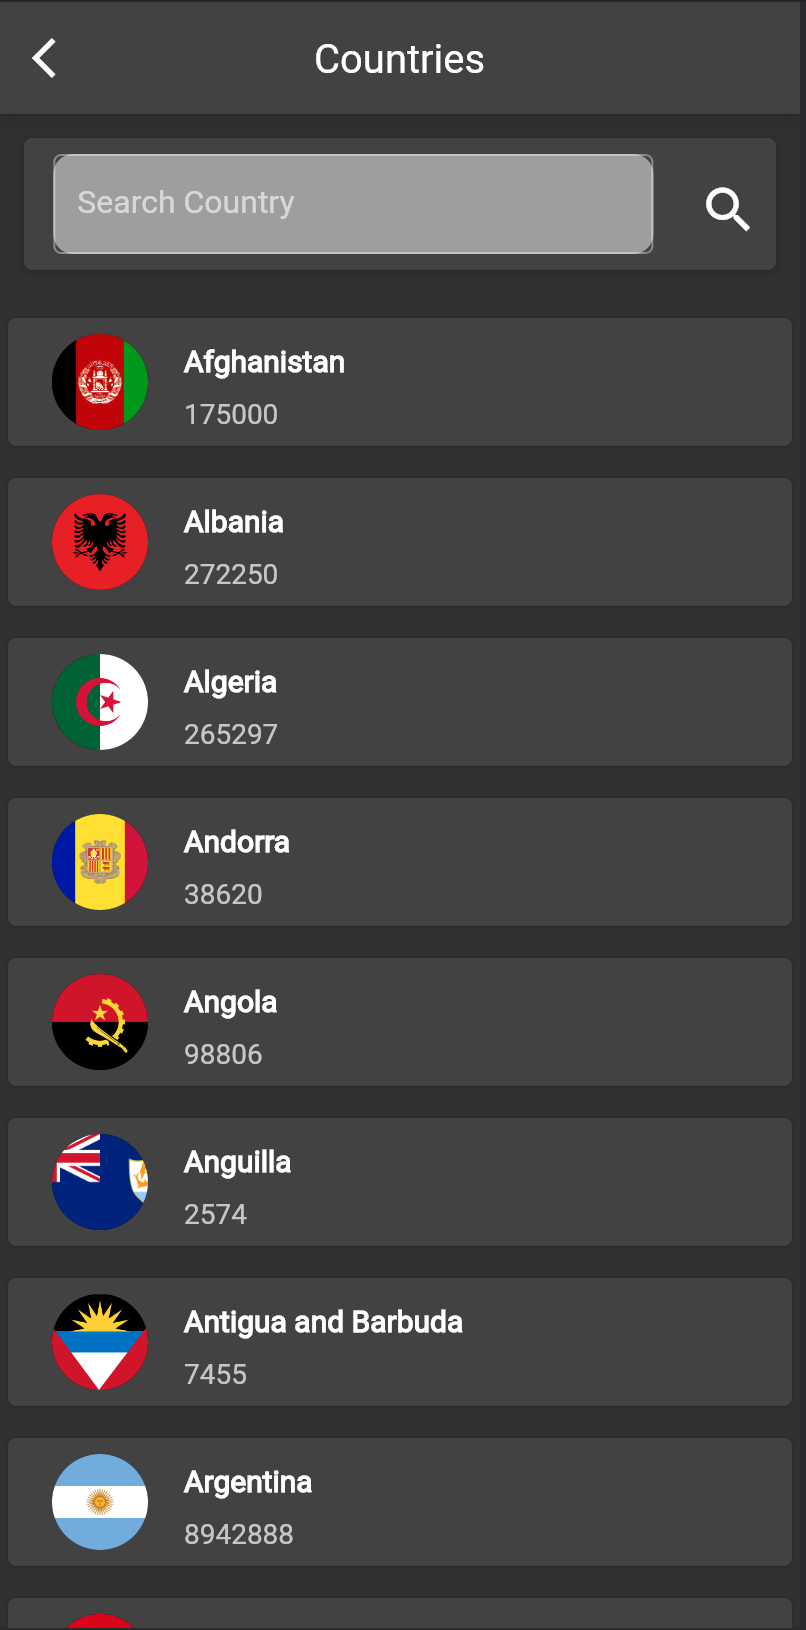
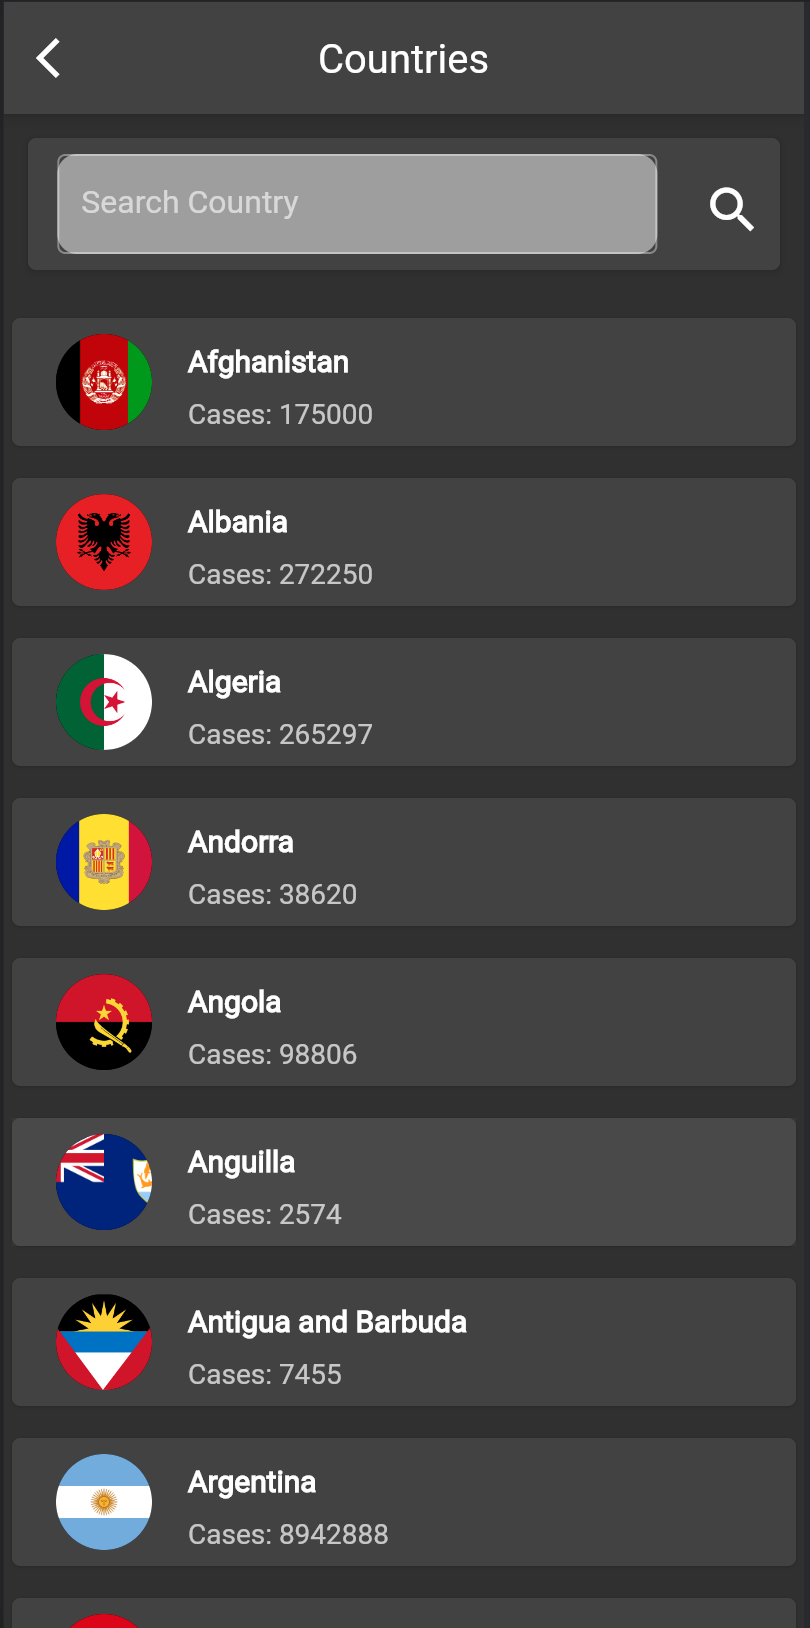
Read.md

diff --git a/lib/screens/countrieslist.dart b/lib/screens/countrieslist.dart
@@ -132,7 +132,8 @@ class countries_list extends StatelessWidget {
                                                             .countryinfo.flag),
                                                   ),
                                                   subtitle: Text(
-                                                    dat.cases.toString(),
+                                                    'Cases: ' +
+                                                        dat.cases.toString(),
                                                     style: TextStyle(height: 2),
                                                   ),
                                                 ),
